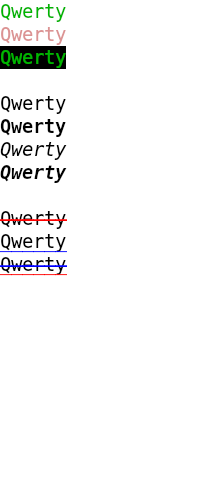
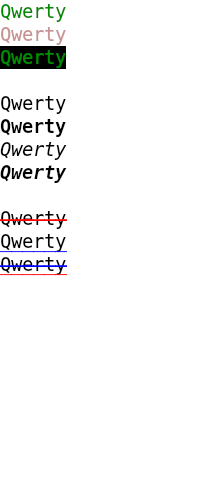
Convert colours to linear space before blending.
Applies gamma correction correctly to background.

diff --git a/internal/gl/context.go b/internal/gl/context.go
@@ -2,6 +2,7 @@ package gl
 
 import (
 	"fmt"
+	"math"
 
 	"github.com/go-gl/gl/v3.3-core/gl"
 	"github.com/go-gl/glfw/v3.3/glfw"
@@ -18,6 +19,7 @@ type Context struct {
 	framebufferTexture uint32
 	glyphsTexture      uint32
 	bg                 color.Color
+	bgLinear           color.Color
 	gamma              float32
 }
 
@@ -99,6 +101,11 @@ func (c *Context) SetWindowSize(width, height int) {
 
 func (c *Context) SetBg(bg color.Color) {
 	c.bg = bg
+
+	c.bgLinear.R = float32(math.Pow(float64(bg.R), float64(c.gamma)))
+	c.bgLinear.G = float32(math.Pow(float64(bg.G), float64(c.gamma)))
+	c.bgLinear.B = float32(math.Pow(float64(bg.B), float64(c.gamma)))
+	c.bgLinear.A = bg.A
 }
 
 func (c *Context) SetGlyphsTexture(texture uint32) {
@@ -107,4 +114,5 @@ func (c *Context) SetGlyphsTexture(texture uint32) {
 
 func (c *Context) SetGamma(gamma float32) {
 	c.gamma = gamma
+	c.SetBg(c.bg)
 }

diff --git a/_demo/simple/main.go b/_demo/simple/main.go
@@ -16,11 +16,12 @@ func initialise(app *dull.Application, err error) {
 	// green := dull.New(0.4, 1.0, 0.0, 1.0)
 	white := color.New(1.0, 1.0, 1.0, 1.0)
 	black := color.New(0.0, 0.0, 0.0, 1.0)
-	darkGrey := color.New(0.1, 0.1, 0.1, 1.0)
+	almostBlack := color.New(0.063, 0.063, 0.063, 1.0)
+	darkGrey := color.New(0.125, 0.125, 0.125, 1.0)
 	red := color.New(1.0, 0.0, 0.0, 1.0)
 	green := color.New(0.0, 1.0, 0.0, 1.0)
 	window, err := app.NewWindow(&dull.WindowOptions{
-		Bg: &white,
+		Bg: &almostBlack,
 		Fg: &black,
 	})
 	if err != nil {
@@ -83,6 +84,15 @@ func initialise(app *dull.Application, err error) {
 				Bottom: 3,
 				Left:   20,
 				Right:  22,
+			},
+			darkGrey,
+		)
+		d.DrawCellsRect(
+			geometry.RectFloat{
+				Top:    0,
+				Bottom: 20,
+				Left:   30,
+				Right:  50,
 			},
 			darkGrey,
 		)

diff --git a/internal/gl/context-draw.go b/internal/gl/context-draw.go
@@ -31,9 +31,10 @@ func (c *Context) drawCells(vertices []float32) {
 	gl.UseProgram(c.renderProgram)
 
 	c.setTextureUniform(c.renderProgram, c.glyphsTexture)
+	c.setGammaUniform(c.renderProgram, c.gamma)
 
 	// clear to background colour
-	gl.ClearColor(c.bg.R, c.bg.G, c.bg.B, c.bg.A)
+	gl.ClearColor(c.bgLinear.R, c.bgLinear.G, c.bgLinear.B, c.bgLinear.A)
 	gl.Clear(gl.COLOR_BUFFER_BIT)
 
 	vertexAttributes := []vertexAttribute{vertexAttrPosition, vertexAttrTextureCoords, vertexAttrColor}

diff --git a/internal/gl/program-render.go b/internal/gl/program-render.go
@@ -10,13 +10,16 @@ var renderVertexShaderSource = `
 	out vec2 TexCoords;
 	out vec4 Color;
 
+	uniform float gamma;
+
 	void main()
 	{
 		vec2 projection = vec2(1.0, -1.0); // Invert y-axis
 
 		gl_Position = vec4(projection * position, 0.0, 1.0);
 		TexCoords = texCoords;
-		Color = color;
+
+		Color = pow(color, vec4(vec3(gamma), 1.0));
 	}
 `
 

diff --git a/window-draw.go b/window-draw.go
@@ -19,6 +19,16 @@ func (w *Window) draw() {
 
 	w.clear()
 
+	// background
+	w.DrawCellsRect(geometry.RectFloat{
+		Top:    0,
+		Bottom: float64(w.rows),
+		Left:   0,
+		Right:  float64(w.columns),
+	},
+		w.bg,
+	)
+
 	if w.drawCallback != nil {
 		w.drawCallback(w, w.columns, w.rows)
 	}
